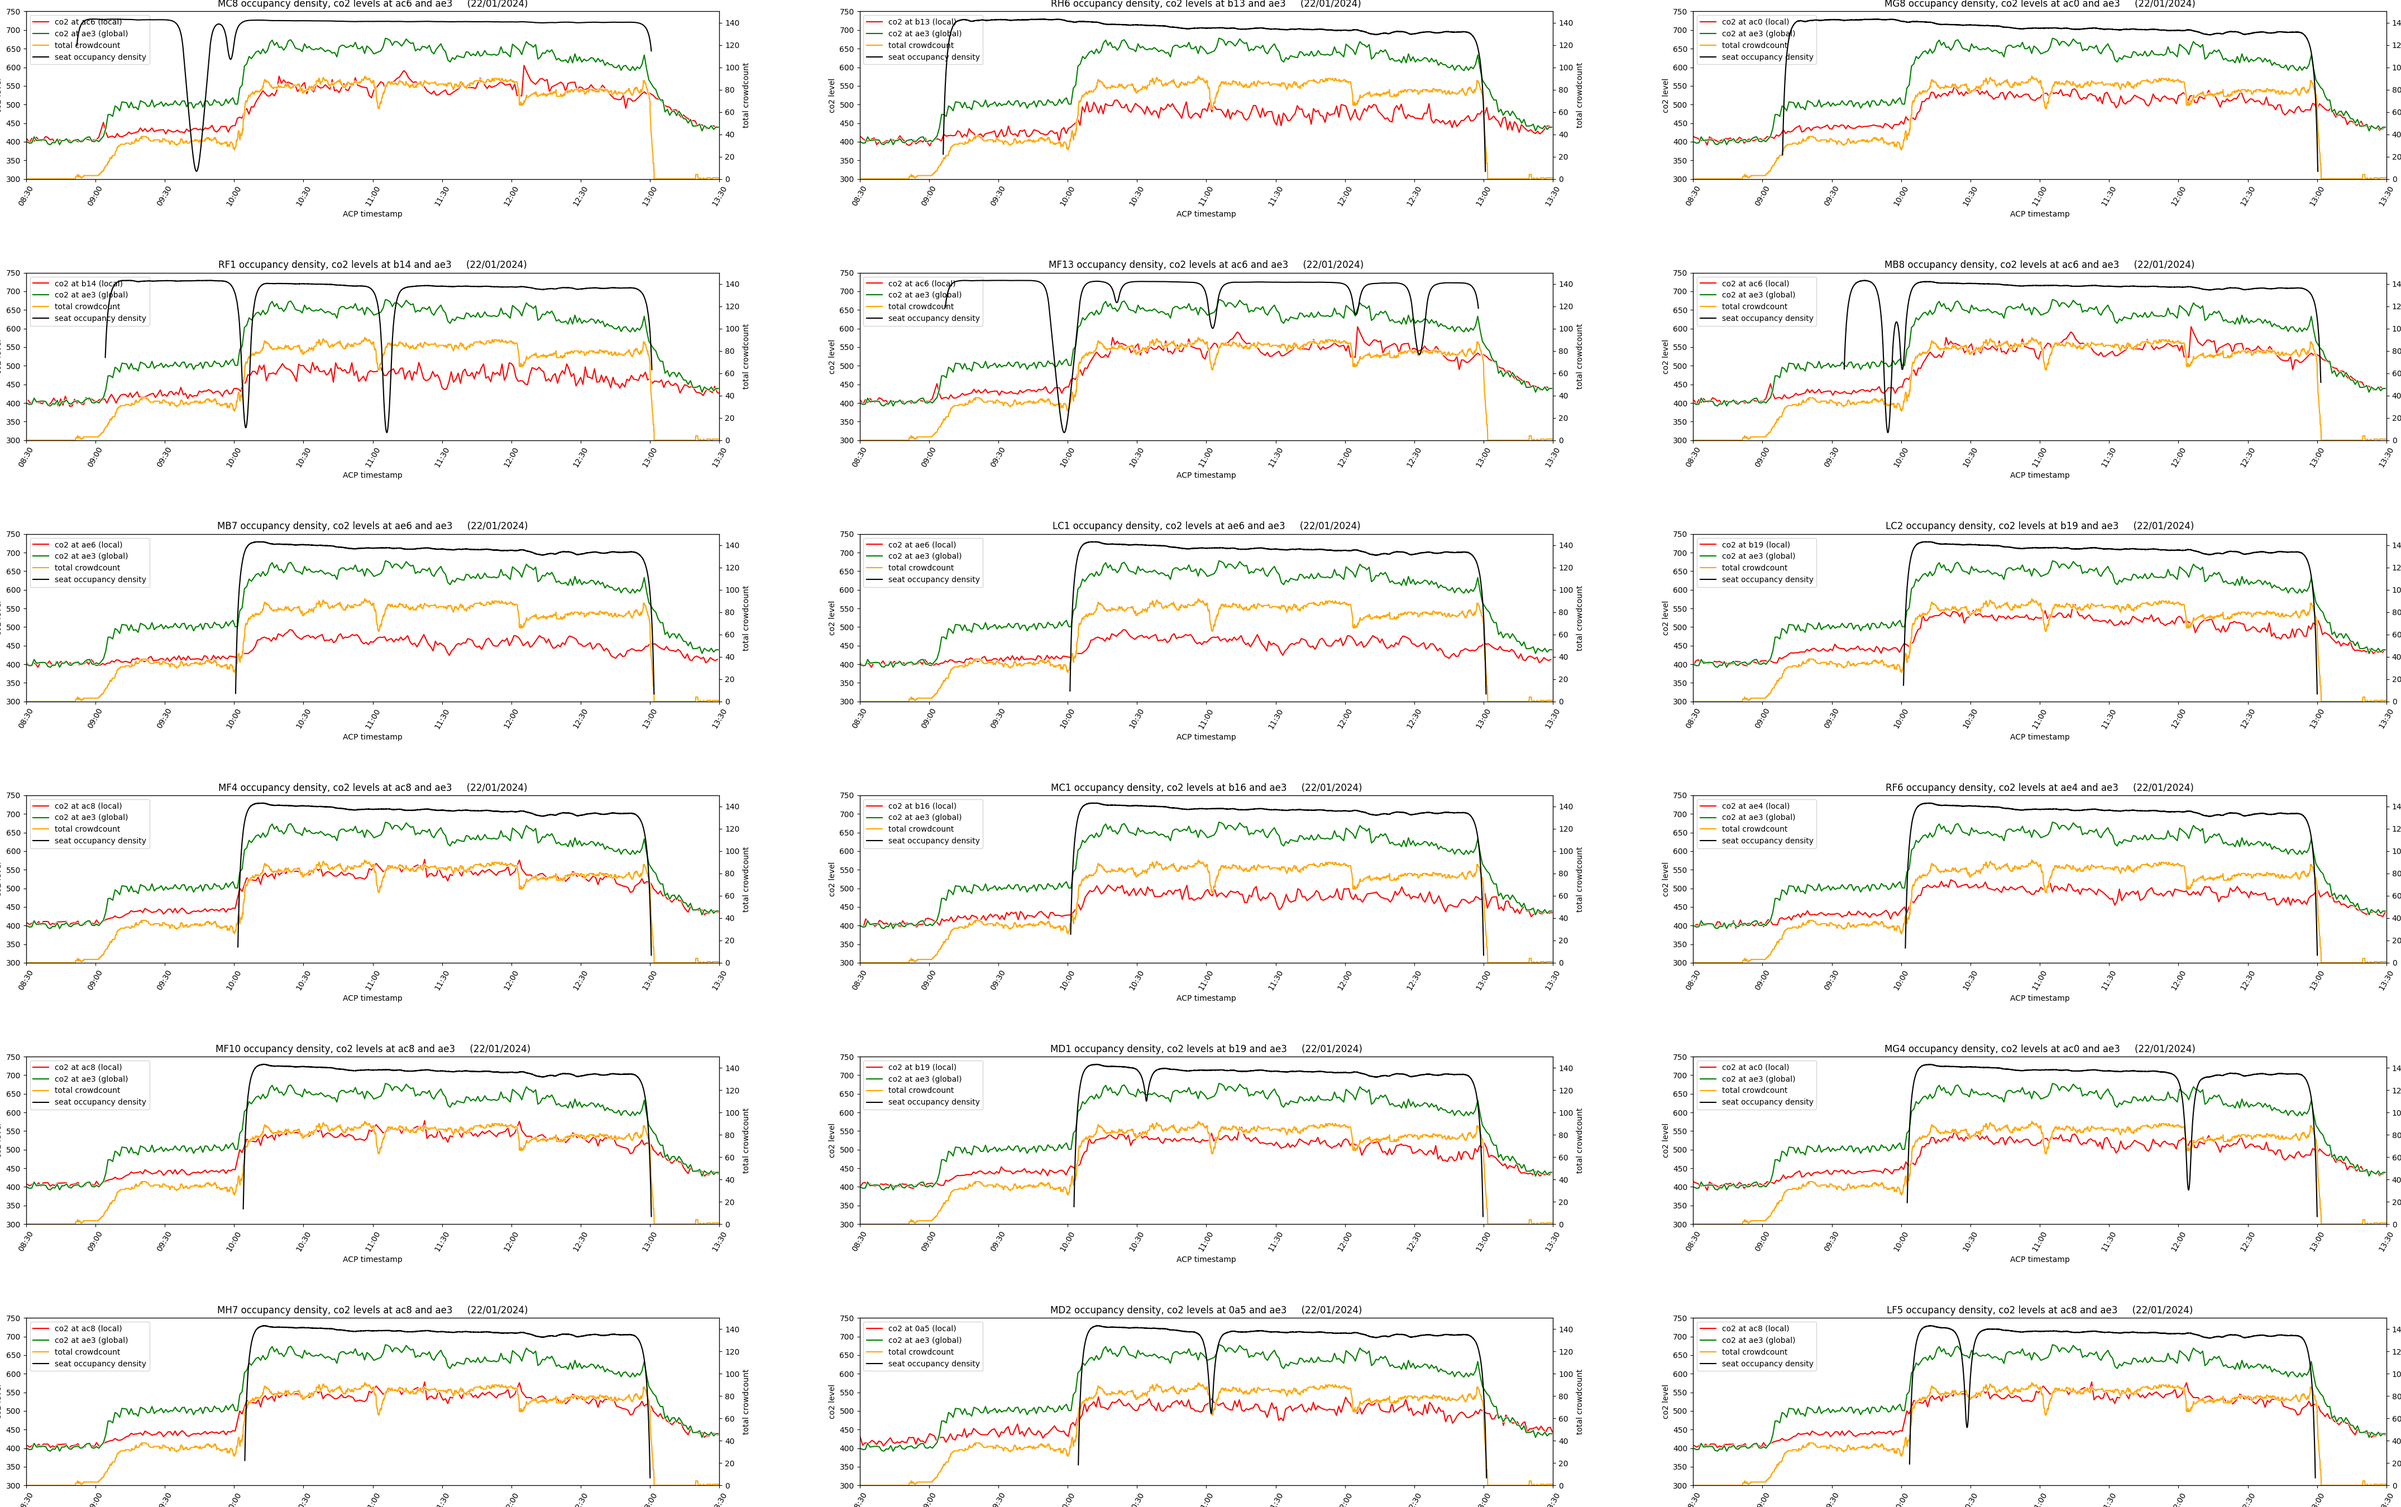
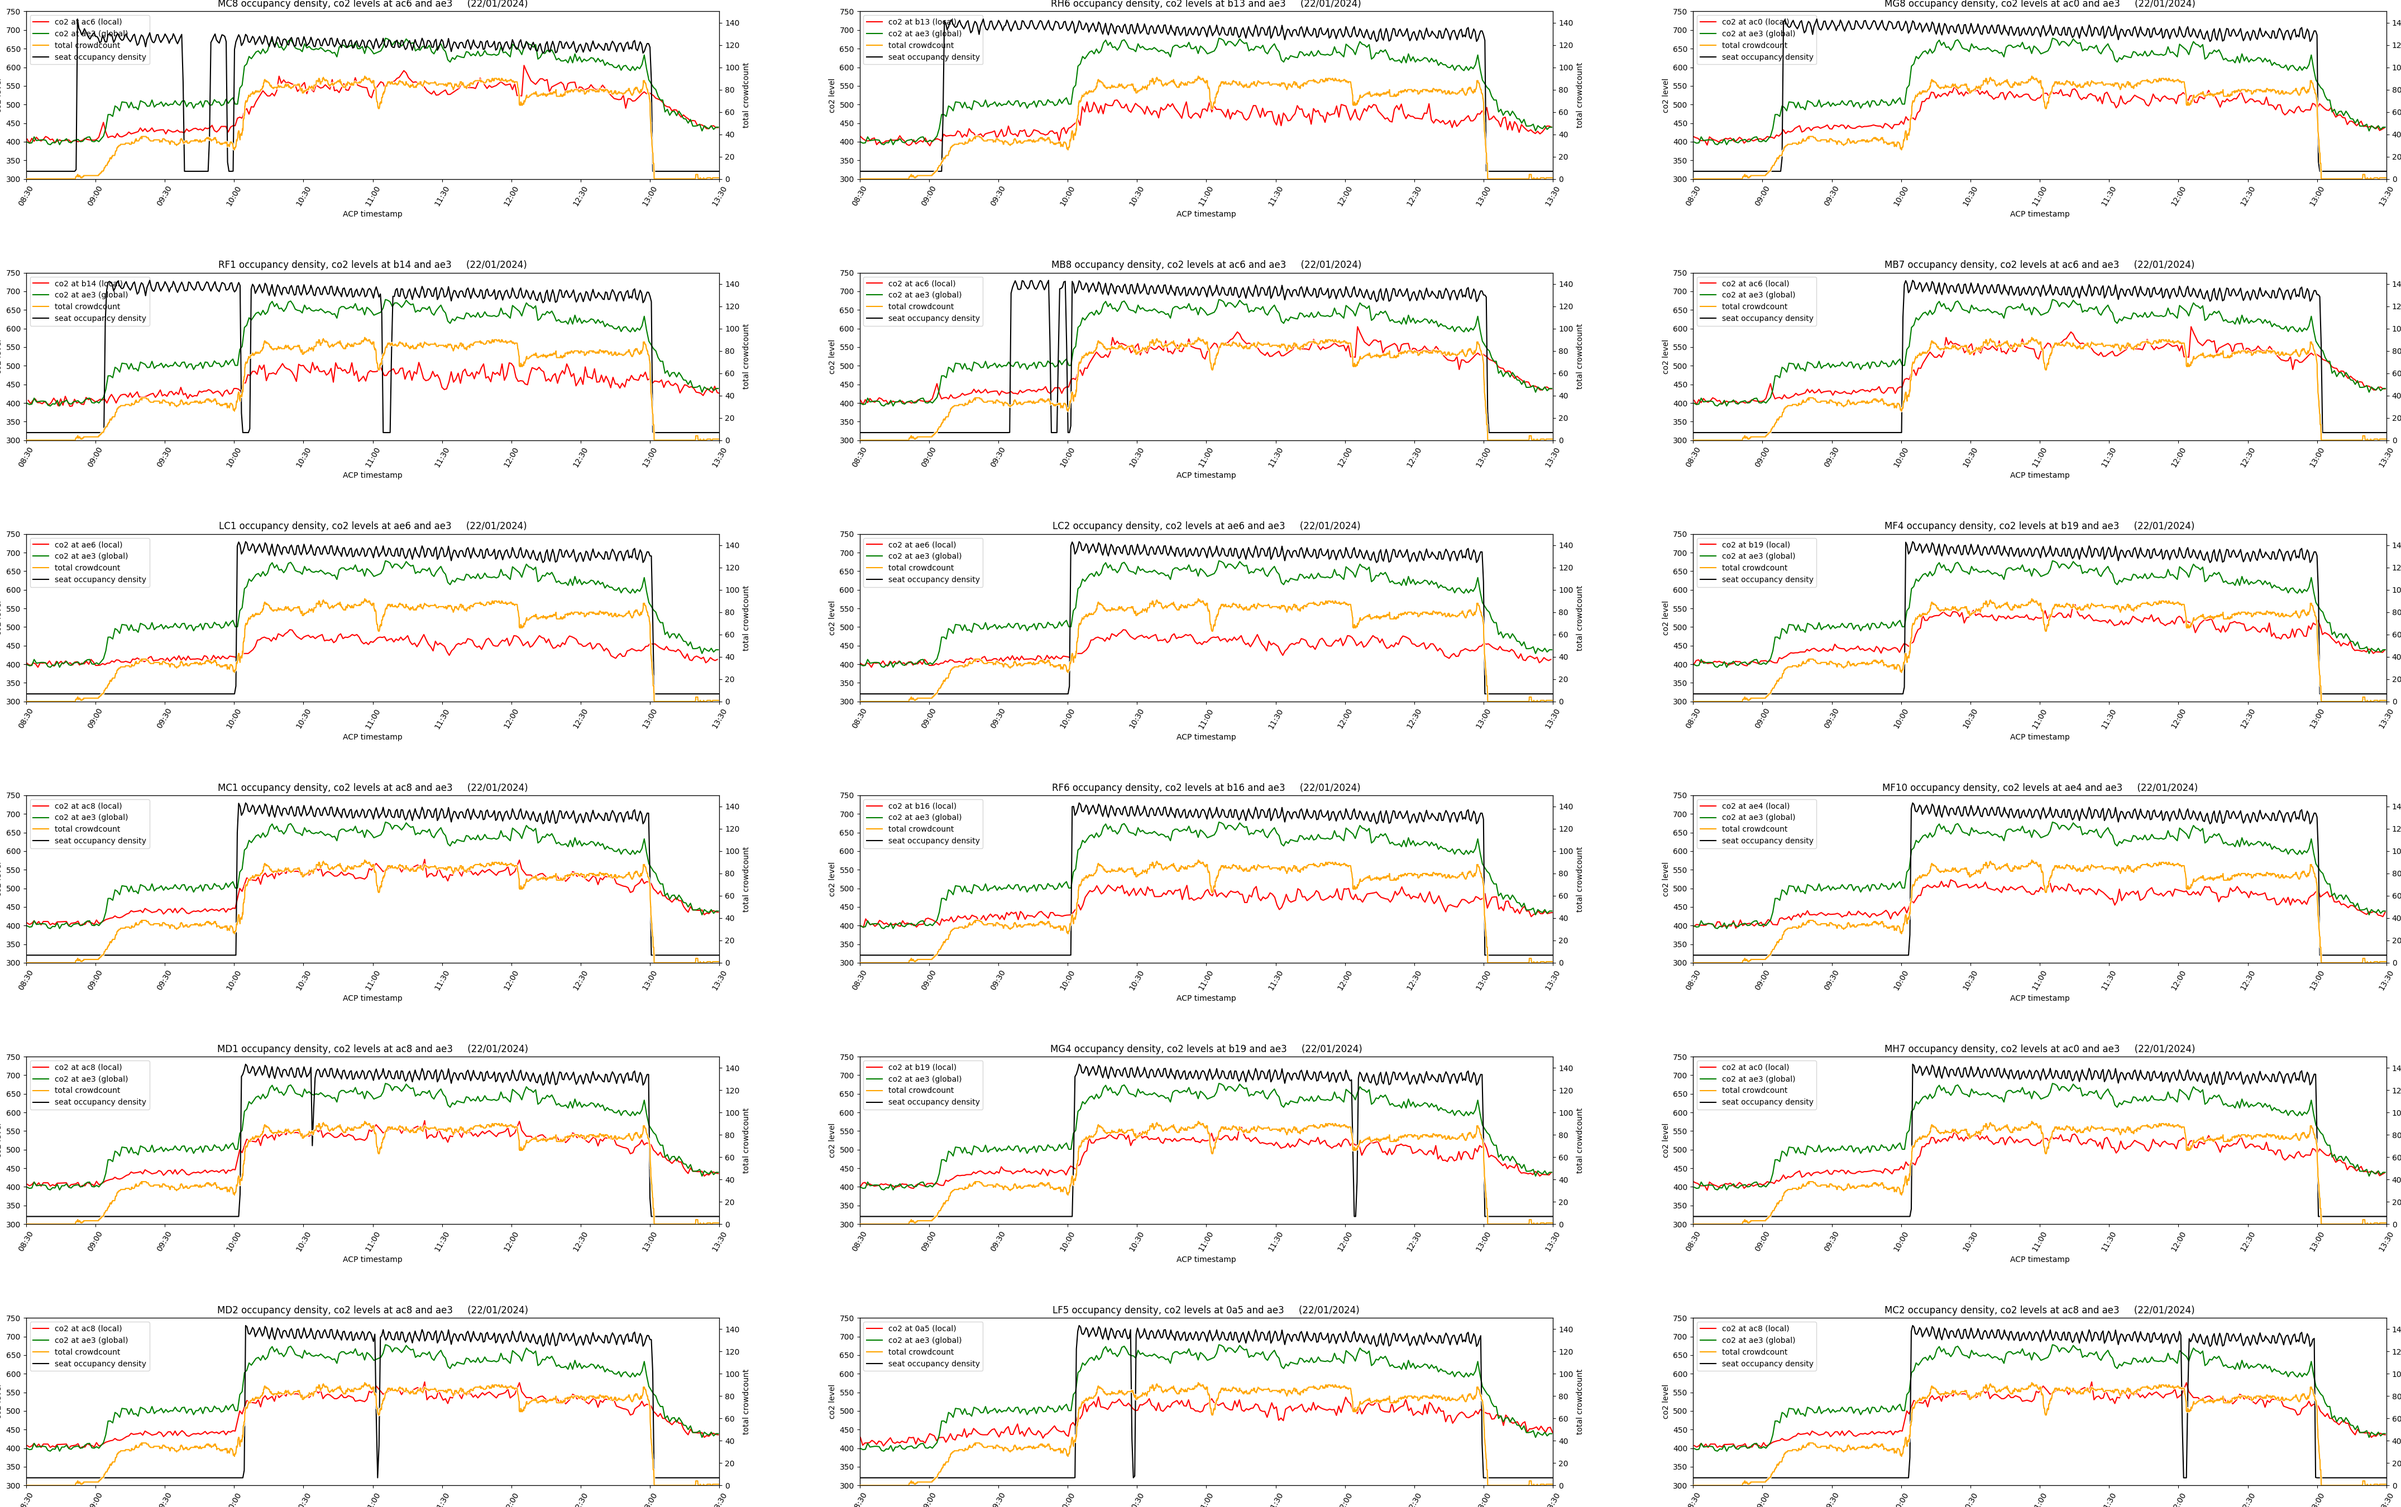
fix density plotting bug and sensor-seat matching bug

diff --git a/discoveryPhase/facePercentagePlotter.py b/discoveryPhase/facePercentagePlotter.py
@@ -25,7 +25,7 @@ class MetricReadingError(Exception):
         self.message = message
         super().__init__(self.message)
 
-SENSOR_NEAREST_SEATS = {
+NEAREST_SEATS_BY_SENSOR = {
     '058bl2':['LH1', 'LH2', 'LI1'],
     '0559f3':['LH6', 'LH5', 'LI6', 'LI5'],
     '0520a5':['LE6', 'LF6', 'LE5', 'LF5'],
@@ -49,10 +49,10 @@ SENSOR_NEAREST_SEATS = {
     '058ac2':['RB6', 'RB5'],
     }
 
-LOCAL_SEATS_SENSOR = {}
-for sensor in SENSOR_NEAREST_SEATS:
-    for seat in SENSOR_NEAREST_SEATS[sensor]:
-        LOCAL_SEATS_SENSOR[seat] = sensor
+NEAREST_SENSOR_BY_SEAT = {}
+for sensor in NEAREST_SEATS_BY_SENSOR:
+    for seat in NEAREST_SEATS_BY_SENSOR[sensor]:
+        NEAREST_SENSOR_BY_SEAT[seat] = sensor
 
 def getMetricLim(metric):
     if metric == 'co2':
@@ -86,12 +86,12 @@ def getSeatTS(seat, day, timeboundaries):
     seatTS = targetSeatDF['acp_ts'] 
     return seatTS
 
-def getSeatTSDensityPoints(seatTS):
+def getSeatTSDensityPoints(seatTS, timeboundaries):
     seatTS = seatTS.to_numpy().reshape(-1, 1)
-    TSRange = np.linspace(seatTS.min(), seatTS.max(), len(seatTS)).reshape(-1, 1)
-    kde = KernelDensity(kernel='exponential', bandwidth=100).fit(seatTS)
-    log_density = kde.score_samples(TSRange)
-    return TSRange, log_density
+    kde = KernelDensity(kernel='gaussian', bandwidth=7.5).fit(seatTS)
+    ts_samples = np.linspace(timeboundaries[0], timeboundaries[1], 500).reshape(-1,1)
+    density = np.exp(kde.score_samples(ts_samples))
+    return ts_samples, density
 
 def getSeatCounts(day, timeboundaries):
     boundedNodeDF = getBoundedNodeDF(day, timeboundaries)
@@ -172,18 +172,20 @@ def plotMetricWithFaceDetectionFrequency(seat: str, sensor1: str, sensor2: str, 
 def getSensor1Points(sensor1s, day, timeboundaries, metric, num_plots):
     sensor1Points = {}
     acceptedSensor1s = []
+    acceptedSensorIndecies = []
     i = 0
-    for sensor1 in sensor1s:
+    for j, sensor1 in enumerate(sensor1s):
         try:
             sensor1Points[sensor1] = getSensorlevels(sensor1, day, timeboundaries, metric)
             acceptedSensor1s.append(sensor1)
+            acceptedSensorIndecies.append(j)
             i += 1
         except MetricReadingError:
             print(f'no {metric} reading for {sensor1}, trying next sensor')
             continue
         if i >= num_plots:
             break
-    return sensor1Points, acceptedSensor1s
+    return sensor1Points, acceptedSensor1s, acceptedSensorIndecies
 
 def plotMultipleMetricWithFaceDetectionFrequency(
         seats: list[str], 
@@ -197,20 +199,21 @@ def plotMultipleMetricWithFaceDetectionFrequency(
         num_plots=15, 
         isDensity=False
     ):
-    seatTSs = {}
-    for seat in seats:
-        seatTSs[seat] = getSeatTS(seat, day, timeboundaries)
-    sensor1Points, acceptedSensor1s = getSensor1Points(sensor1s, day, timeboundaries, metric, num_plots)
+    sensor1Points, acceptedSensor1s, acceptedSensor1Indecies = getSensor1Points(sensor1s, day, timeboundaries, metric, num_plots)
     sensor2Points = {}
     for sensor2 in sensor2s:
         sensor2Points[sensor2] = getSensorlevels(sensor2, day, timeboundaries, metric)
+    seatTSs = {}
+    acceptedSeats = [seats[i] for i in acceptedSensor1Indecies]
+    for seat in acceptedSeats:
+        seatTSs[seat] = getSeatTS(seat, day, timeboundaries)
     
     boundedNodeDF = getBoundedNodeDF(day, timeboundaries)
     crowdcountTS, crowdcount = boundedNodeDF['acp_ts'], boundedNodeDF['crowdcount']
 
     fig, axs = plt.subplots(6, 3, figsize=(43, 27))
     fig.tight_layout(w_pad=15, h_pad=10)
-    for ax, seat, sensor1, sensor2 in zip(axs.flat, seats, acceptedSensor1s, sensor2s):
+    for ax, seat, sensor1, sensor2 in zip(axs.flatten(), acceptedSeats, acceptedSensor1s, sensor2s):
 
         xticksTS = np.linspace(timeboundaries[0], timeboundaries[1], int((timeboundaries[1]-timeboundaries[0]) / 3600) * 2 + 1)
         xticksLabels = np.array([datetime.fromtimestamp(tickTS).strftime('%H:%M') for tickTS in xticksTS])
@@ -223,33 +226,34 @@ def plotMultipleMetricWithFaceDetectionFrequency(
         ax.set_ylabel(f'{metric} level')
         ax.set_title(f'{seat} occupancy density, {metric} levels at {sensor1[-3:]} and {sensor2[-3:]}     ({day}/01/2024)')
 
-        ax.plot(sensor1Points[sensor1][0], sensor1Points[sensor1][1], color='w', linewidth=3)
-        ax.plot(sensor1Points[sensor1][0], sensor1Points[sensor1][1], color='r', label=f'{metric} at {sensor1[-3:]} (local)')
+        axDensity = ax.twinx()
+        axDensity.set_xlim(timeboundaries[0], timeboundaries[1])
+        axDensity.set_yticks([])
+        axDensity.set_yticklabels([])
+        if isDensity:
+            x, y = getSeatTSDensityPoints(seatTSs[seat], timeboundaries)
+            axDensity.plot(x, y, color='black', label=f'seat occupancy density', zorder=-10)
+        else:
+            axDensity.set_ylim(getMetricLim(metric))
+            closestSensorVals = np.interp(seatTSs[seat], sensor2Points[sensor2][0], sensor2Points[sensor2][1]) if vlineBoundary == 2 else np.interp(seatTSs[seat], sensor1Points[sensor1][0], sensor1Points[sensor1][1])
+            axDensity.bar(seatTSs[seat], closestSensorVals, width=5, align='center', color='black', alpha=0.5)
+
+        ax.plot(sensor1Points[sensor1][0], sensor1Points[sensor1][1], color='w', linewidth=3, zorder=2)
+        ax.plot(sensor1Points[sensor1][0], sensor1Points[sensor1][1], color='r', label=f'{metric} at {sensor1[-3:]} (local)', zorder=3)
     
-        ax.plot(sensor2Points[sensor2][0], sensor2Points[sensor2][1], color='w', linewidth=3)
-        ax.plot(sensor2Points[sensor2][0], sensor2Points[sensor2][1], color='g', label=f'{metric} at {sensor2[-3:]} (global)')
+        ax.plot(sensor2Points[sensor2][0], sensor2Points[sensor2][1], color='w', linewidth=3, zorder=2)
+        ax.plot(sensor2Points[sensor2][0], sensor2Points[sensor2][1], color='g', label=f'{metric} at {sensor2[-3:]} (global)', zorder=3)
 
         ax2 = ax.twinx()
-        ax2.plot(crowdcountTS, crowdcount, color='w', linewidth=3)
-        ax2.plot(crowdcountTS, crowdcount, color='orange', label='total crowdcount')
+        ax2.plot(crowdcountTS, crowdcount, color='w', linewidth=3, zorder=2)
+        ax2.plot(crowdcountTS, crowdcount, color='orange', label='total crowdcount', zorder=3)
         ax2.set_ylabel('total crowdcount')
         ax2.set_ylim(0,150)
         ax2.tick_params(axis='y')
 
-        if isDensity:
-            ax3 = ax.twinx()
-            x, y = getSeatTSDensityPoints(seatTSs[seat])
-            ax3.plot(x, y, color='black', label=f'seat occupancy density')
-            ax3.set_yticks([])
-            ax3.set_yticklabels([])
-        else:
-            closestSensorVals = {}
-            for seat, sensor1, sensor2 in zip(seats, acceptedSensor1s, sensor2s):
-                closestSensorVals[seat] = np.interp(seatTSs[seat], sensor2Points[sensor2][0], sensor2Points[sensor2][1]) if vlineBoundary == 2 else np.interp(seatTSs[seat], sensor1Points[sensor1][0], sensor1Points[sensor1][1])
-            ax.bar(seatTSs[seat], closestSensorVals[seat], width=5, align='center', color='black', alpha=0.75)
         handles1, labels1 = ax.get_legend_handles_labels()
         handles2, labels2 = ax2.get_legend_handles_labels()
-        handles3, labels3 = ax3.get_legend_handles_labels()
+        handles3, labels3 = axDensity.get_legend_handles_labels()
         handles = handles1 + handles2 + handles3
         labels = labels1 + labels2 + labels3
         ax.legend(handles, labels, loc='upper left')
@@ -269,23 +273,20 @@ def plotMultipleFaceDetectionFrequencyWithMetric(
     ):
     faceDetectionSeatCounts = getSeatCounts(day, timeboundaries)
     sortedFaceDetectionSeats = sorted(faceDetectionSeatCounts, key=faceDetectionSeatCounts.get, reverse=True)
-    near_seats = [seat for seats in SENSOR_NEAREST_SEATS.values() for seat in seats]
+    near_seats = [seat for seats in NEAREST_SEATS_BY_SENSOR.values() for seat in seats]
+
     faceDetectionSeatsNearSensors = []
     for seat in sortedFaceDetectionSeats:
         if seat in near_seats:
             faceDetectionSeatsNearSensors.append(seat)
-    if day > 22:
-        faceDetectionSeatsNearSensors = list(filter(lambda x: LOCAL_SEATS_SENSOR[x] != '058ae2', faceDetectionSeatsNearSensors))
-    if day > 24:
-        faceDetectionSeatsNearSensors = list(filter(lambda x: LOCAL_SEATS_SENSOR[x] != '058ac9', faceDetectionSeatsNearSensors))
-    sensor1s = [LOCAL_SEATS_SENSOR[seat] for seat in faceDetectionSeatsNearSensors]
-    sensor2s = ['058ae3'] * 18
-    plotMultipleMetricWithFaceDetectionFrequency(faceDetectionSeatsNearSensors[:18], sensor1s, sensor2s, day, timeboundaries, isSaved, metric, vlineBoundary, num_plots, isDensity=isDensity)
+    sensor1s = [NEAREST_SENSOR_BY_SEAT[seat] for seat in faceDetectionSeatsNearSensors]
+    sensor2s = ['058ae3'] * num_plots
+    plotMultipleMetricWithFaceDetectionFrequency(faceDetectionSeatsNearSensors, sensor1s, sensor2s, day, timeboundaries, isSaved, metric, vlineBoundary, num_plots, isDensity=isDensity)
 
 
 
 if __name__ == '__main__':
-    DAY = 24
+    DAY = 22
     timeboundarystart = datetime.strptime(f'2024-1-{DAY} 8:30:00', "%Y-%m-%d %H:%M:%S").timestamp()
     timeboundaryend = datetime.strptime(f'2024-1-{DAY} 13:30:00', "%Y-%m-%d %H:%M:%S").timestamp()
-    plotMultipleFaceDetectionFrequencyWithMetric(day=DAY, timeboundaries=(timeboundarystart, timeboundaryend), isSaved=True, metric='temperature', vlineBoundary=2, num_plots=18, isDensity=True)
+    plotMultipleFaceDetectionFrequencyWithMetric(day=DAY, timeboundaries=(timeboundarystart, timeboundaryend), isSaved=True, metric='co2', vlineBoundary=2, num_plots=18, isDensity=True)
